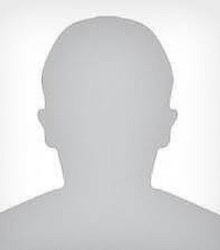
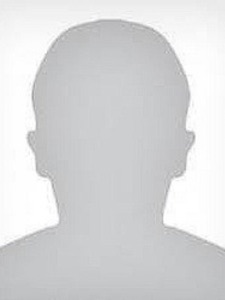
Adds portrait_fill image size to display correctly members photos

diff --git a/themes/willy/templates/members.html b/themes/willy/templates/members.html
@@ -11,7 +11,7 @@
                 <div class="col-md-4 col-sm-6 member">
                     <h3>{{ $member.Fullname }}</h3>
                     {{ if .Photo }}
-                        <img class="img-responsive img-thumbnail avatar" src="{{ $member.Photo.SmallFill }}" alt="{{ $member.Fullname }}" />
+                        <img class="img-responsive img-thumbnail avatar" src="{{ $member.Photo.PortraitFill }}" alt="{{ $member.Fullname }}" />
                     {{ else }}
                         <img class="img-responsive img-thumbnail avatar no-photo" src="/assets/img/avatar.jpg" alt="{{ $member.Fullname }}" />
                     {{ end }}

diff --git a/client/app/models/image.js b/client/app/models/image.js
@@ -12,6 +12,7 @@ var ImageModel = DS.Model.extend({
   squareUrl: DS.attr(),
   smallUrl: DS.attr(),
   smallFillUrl: DS.attr(),
+  portraitFillUrl: DS.attr(),
   largeUrl: DS.attr(),
 
   site: DS.belongsTo('site', { inverse: 'images', async: true }),

diff --git a/models/image.go b/models/image.go
@@ -50,6 +50,12 @@ const (
 	SMALL_FILL_WIDTH  = 300
 	SMALL_FILL_HEIGHT = 225
 
+	PORTRAIT_FILL_KIND   = "portrait_fill"
+	PORTRAIT_FILL_SCALE  = DERIVATIVE_FILL
+	PORTRAIT_FILL_SUFFIX = "_pf"
+	PORTRAIT_FILL_WIDTH  = 225
+	PORTRAIT_FILL_HEIGHT = 300
+
 	LARGE_KIND   = "large"
 	LARGE_SCALE  = DERIVATIVE_FIT
 	LARGE_SUFFIX = "_l"
@@ -78,11 +84,12 @@ type ImageJson struct {
 	Image
 	URL string `json:"url"`
 
-	ThumbURL     string `json:"thumbUrl"`
-	SquareURL    string `json:"squareUrl"`
-	SmallURL     string `json:"smallUrl"`
-	SmallFillURL string `json:"smallFillUrl"`
-	LargeURL     string `json:"largeUrl"`
+	ThumbURL        string `json:"thumbUrl"`
+	SquareURL       string `json:"squareUrl"`
+	SmallURL        string `json:"smallUrl"`
+	SmallFillURL    string `json:"smallFillUrl"`
+	PortraitFillURL string `json:"portraitFillUrl"`
+	LargeURL        string `json:"largeUrl"`
 }
 
 type Derivative struct {
@@ -124,6 +131,13 @@ func init() {
 			suffix: SMALL_FILL_SUFFIX,
 			width:  SMALL_FILL_WIDTH,
 			height: SMALL_FILL_HEIGHT,
+		},
+		&Derivative{
+			kind:   PORTRAIT_FILL_KIND,
+			scale:  PORTRAIT_FILL_SCALE,
+			suffix: PORTRAIT_FILL_SUFFIX,
+			width:  PORTRAIT_FILL_WIDTH,
+			height: PORTRAIT_FILL_HEIGHT,
 		},
 		&Derivative{
 			kind:   LARGE_KIND,
@@ -219,11 +233,12 @@ func (img *Image) MarshalJSON() ([]byte, error) {
 		Image: *img,
 		URL:   img.URL(),
 
-		ThumbURL:     img.ThumbURL(),
-		SquareURL:    img.SquareURL(),
-		SmallURL:     img.SmallURL(),
-		SmallFillURL: img.SmallFillURL(),
-		LargeURL:     img.LargeURL(),
+		ThumbURL:        img.ThumbURL(),
+		SquareURL:       img.SquareURL(),
+		SmallURL:        img.SmallURL(),
+		SmallFillURL:    img.SmallFillURL(),
+		PortraitFillURL: img.PortraitFillURL(),
+		LargeURL:        img.LargeURL(),
 	}
 
 	return json.Marshal(imageJson)
@@ -308,6 +323,11 @@ func (img *Image) SmallURL() string {
 // Returns Small Fill derivative URL
 func (img *Image) SmallFillURL() string {
 	return img.DerivativeURL(DerivativeForKind(SMALL_FILL_KIND))
+}
+
+// Returns Portrait Fill derivative URL
+func (img *Image) PortraitFillURL() string {
+	return img.DerivativeURL(DerivativeForKind(PORTRAIT_FILL_KIND))
 }
 
 // Returns Large derivative URL

diff --git a/builder/images.go b/builder/images.go
@@ -8,22 +8,24 @@ import (
 
 // Image vars
 type ImageVars struct {
-	Original  string
-	Thumb     string
-	Square    string
-	Small     string
-	SmallFill string
-	Large     string
+	Original     string
+	Thumb        string
+	Square       string
+	Small        string
+	SmallFill    string
+	PortraitFill string
+	Large        string
 }
 
 func NewImageVars(img *models.Image) *ImageVars {
 	// eg: /site_1/image_m.jpg => /img/image_m.jpg
 	return &ImageVars{
-		Original:  path.Join("/", IMAGES_DIR, path.Base(img.URL())),
-		Thumb:     path.Join("/", IMAGES_DIR, path.Base(img.ThumbURL())),
-		Square:    path.Join("/", IMAGES_DIR, path.Base(img.SquareURL())),
-		Small:     path.Join("/", IMAGES_DIR, path.Base(img.SmallURL())),
-		SmallFill: path.Join("/", IMAGES_DIR, path.Base(img.SmallFillURL())),
-		Large:     path.Join("/", IMAGES_DIR, path.Base(img.LargeURL())),
+		Original:     path.Join("/", IMAGES_DIR, path.Base(img.URL())),
+		Thumb:        path.Join("/", IMAGES_DIR, path.Base(img.ThumbURL())),
+		Square:       path.Join("/", IMAGES_DIR, path.Base(img.SquareURL())),
+		Small:        path.Join("/", IMAGES_DIR, path.Base(img.SmallURL())),
+		SmallFill:    path.Join("/", IMAGES_DIR, path.Base(img.SmallFillURL())),
+		PortraitFill: path.Join("/", IMAGES_DIR, path.Base(img.PortraitFillURL())),
+		Large:        path.Join("/", IMAGES_DIR, path.Base(img.LargeURL())),
 	}
 }
